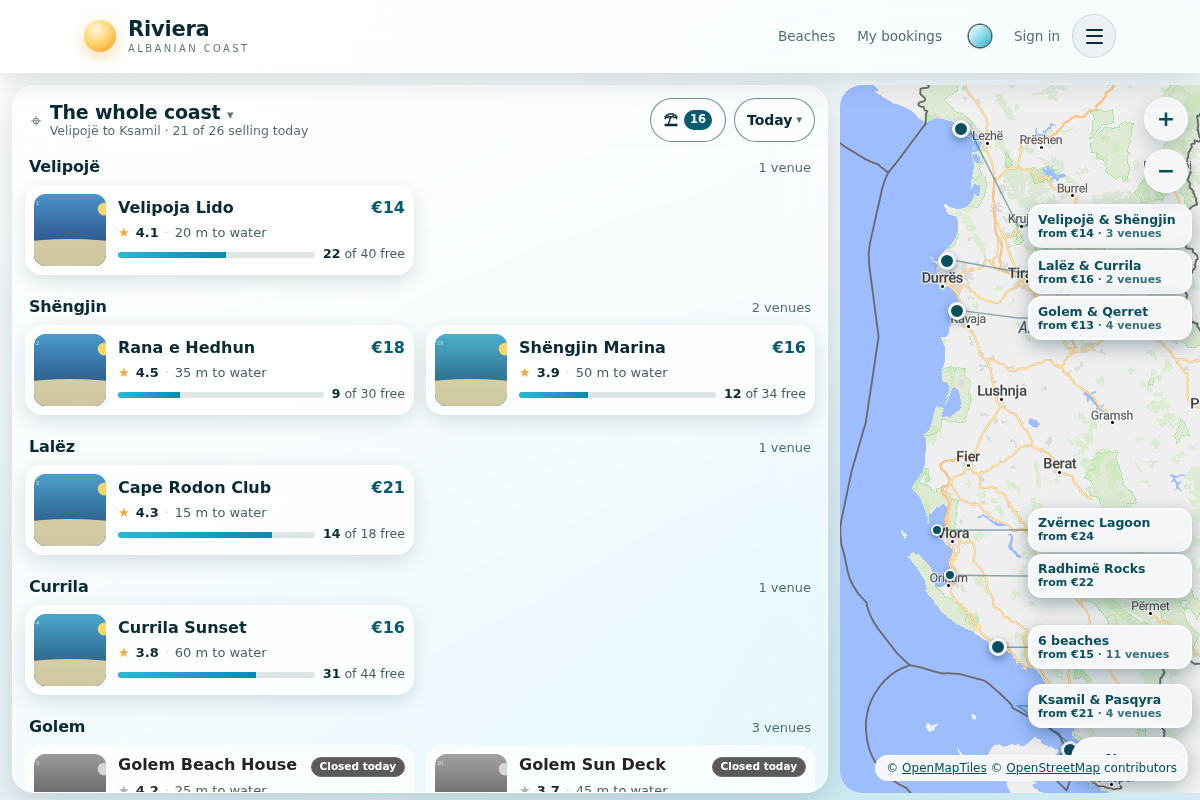
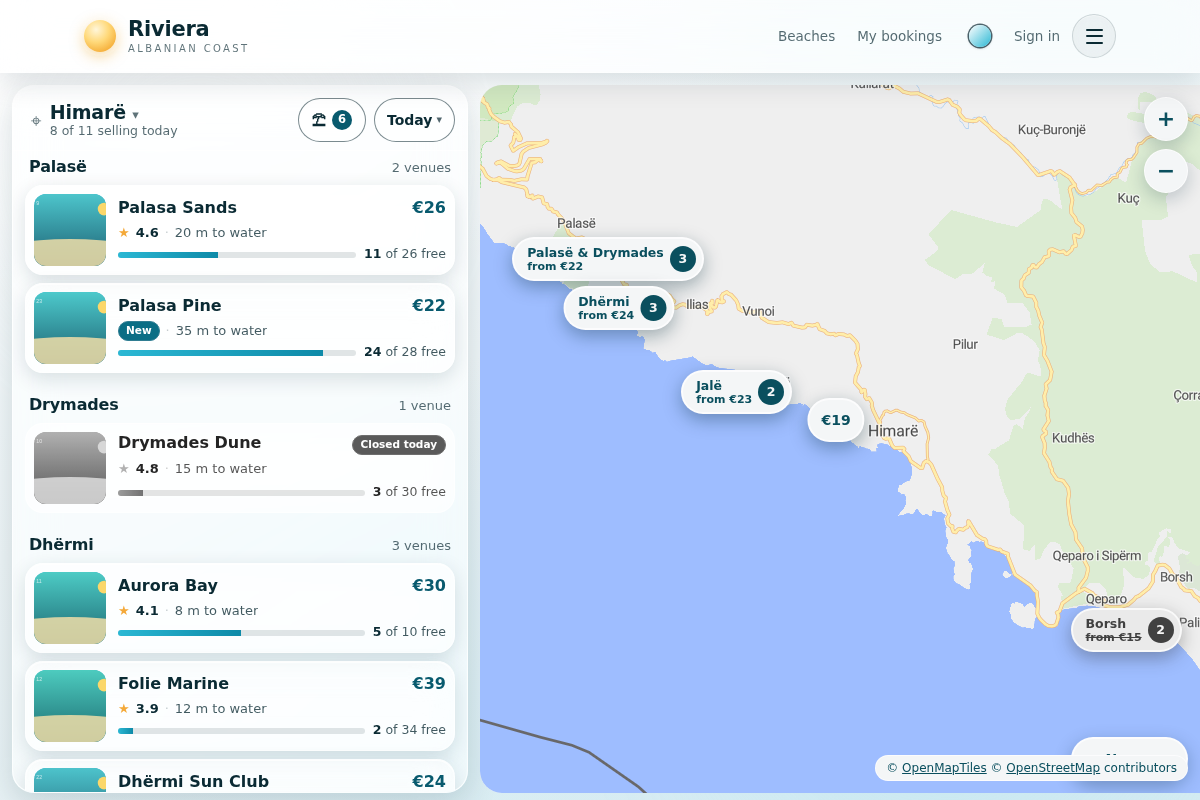
Prototype Q, round 9: the coast line cut, one venue a row on the desktop
Two maintainer calls on round 8's desktop, taken: the coast-line strip over the panel
and the two-column rows go. What the numbers argued for stays: the desktop opens on a
region, the pane is 40–60 % of the window, the whole coast is never a map, and the coast
picker under the place button (no Whole coast in it anywhere) is the desktop's only
chooser. The first row is back at y 185 at every desktop width; rows are one venue wide
beside every pane; cards only from 900 px of panel. The line component, its flag and its
shots are deleted (history at 259c9454); the README's round 9 says so and the
recommendation's third slice is the desktop as rounds 8 and 9 left it.

Claude-Session: https://claude.ai/code/session_011RMvMMLpyfyiZcjvAgin5u

diff --git a/frontend/src/app/pages/prototype-map/variant-shore.ts b/frontend/src/app/pages/prototype-map/variant-shore.ts
@@ -26,9 +26,12 @@
  * </ul>
  *
  * <p>From `lg` up the sheet becomes the left panel and the ground the right pane — the map takes
- * the width its set needs and the list keeps the rest; under ~560 px of pane the pins become dots
- * with their pills in a label gutter. Desktop is the same page with the sheet pinned open beside
- * the map, not a second design.
+ * the width its set needs, never under 40 % of the window, and the list keeps the rest, one venue
+ * a row; under ~560 px of pane the pins become dots with their pills in a label gutter. The
+ * desktop opens on a region as the phone does (round 8: the whole coast is an index no pane can
+ * frame) and the coast picker is its chooser (round 9: a coast-line strip over the panel was
+ * tried and cut). Desktop is the same page with the sheet pinned open beside the map, not a
+ * second design.
  *
  * <p>The phone sheet is two scrollers, not one. The OUTER is a CSS scroll-snap container from the
  * full line down: a transparent spacer holding the peek and half rest points as zero-height snap
@@ -42,9 +45,8 @@
  * <p>URL: `?variant=Q` · `&sheet=peek|half|full` · `&live=1` (the live map from the first paint,
  * for the cost row) · `&here=lng,lat` · `&region=` · `&beach=` · `&now=16:30` ·
  * `&head=subtitle` (the beach in the subtitle instead of a chip) · `&pane=free` (the desktop
- * pane's height follows the set too) · `&desk=line` (round 8: the desktop opens on a region and
- * the whole coast is a line chooser over the panel, never a map) · `&poster=<key>` (the driver's
- * poster-rendering mode: the bare fitted map at 440 × 380).
+ * pane's height follows the set too) · `&poster=<key>` (the driver's poster-rendering mode: the
+ * bare fitted map at 440 × 380).
  */
 import { NgTemplateOutlet } from '@angular/common';
 import {
@@ -83,7 +85,6 @@ import { VenueCard } from '../home/venue-card';
 import { contentAspect } from './prototype-aspect';
 import { fitPins } from './prototype-camera';
 import { COAST } from './prototype-coast';
-import { PrototypeCoastLine } from './prototype-coast-line';
 import { PrototypeCoastPicker } from './prototype-coast-picker';
 import { closedForTodayAt, daysFrom, parseClock } from './prototype-days';
 import { PrototypeFilter, PrototypeState } from './prototype-map-page';
@@ -204,7 +205,6 @@ const GUTTER_PILL =
     TouchTarget,
     RivieraMap,
     VenuePinLayer,
-    PrototypeCoastLine,
     PrototypeCoastPicker,
     PrototypeVenueRow,
     PrototypeVenueCard,
@@ -500,22 +500,12 @@ const GUTTER_PILL =
           [style.width.px]="panelWidth()"
         >
           <div class="relative shrink-0 border-b border-riv-header-border pt-3 pb-2">
-            @if (lineDesk()) {
-              <!-- Round 8: the coast as a line over the panel; the pane below is always a region. -->
-              <app-prototype-coast-line
-                class="mb-1 border-b border-riv-header-border"
-                [region]="focus().region"
-                [beach]="focus().beach"
-                (picked)="filtered.emit($event)"
-              />
-            }
             <ng-container *ngTemplateOutlet="head" />
             @if (pickerOpen()) {
               <app-prototype-coast-picker
                 [region]="state().region"
                 [beach]="state().beach"
                 [located]="state().here !== null"
-                [wholeCoast]="!lineDesk()"
                 (picked)="filtered.emit($event)"
                 (nearMe)="locate()"
                 (closed)="pickerOpen.set(false)"
@@ -662,8 +652,6 @@ export class VariantShore {
   protected readonly subtitleHead = computed(() => this.params().get('head') === 'subtitle');
   /** `?pane=free`: the desktop pane's height follows the set as its width does. */
   private readonly freePane = computed(() => this.params().get('pane') === 'free');
-  /** `?desk=line`: the desktop opens on a region, like the phone, under a coast-line chooser. */
-  protected readonly lineDesk = computed(() => this.params().get('desk') === 'line');
   private readonly askedDetent = (this.params().get('sheet') as Detent | null) ?? 'half';
   /** The scroller's `scrollTop`, mirrored on every scroll event: the one number the sheet is. */
   private readonly scrolled = signal(0);
@@ -707,19 +695,14 @@ export class VariantShore {
     return day ? `${day.weekday} ${day.label}` : this.state().dateLabel;
   });
 
-  /** A region, never the coast, on a phone; the desktop can frame the coast and opens on it. */
+  /** A region, never the coast, on every screen: the tourist's own when located, Himarë otherwise. */
   protected readonly focus = computed<Focus>(() => {
     const s = this.state();
     if (s.beach !== '') {
       return { cards: s.cards, region: beachEntry(s.beach)?.region ?? '', beach: s.beach };
     }
     if (s.region !== '') return { cards: s.cards, region: s.region, beach: '' };
-    const region =
-      s.here !== null
-        ? nearestRegion(s.here, s.cards)
-        : this.wide() && !this.lineDesk()
-          ? ''
-          : PHONE_DEFAULT_REGION;
+    const region = s.here !== null ? nearestRegion(s.here, s.cards) : PHONE_DEFAULT_REGION;
     if (region === '') return { cards: s.cards, region: '', beach: '' };
     return {
       cards: s.cards.filter((c) => beachEntry(c.beach)?.region === region),
@@ -1004,9 +987,8 @@ export class VariantShore {
   private readonly mapWidth = computed(() => {
     const { w } = this.viewport();
     const wanted = (this.columnHeight() - PAD) / this.aspect() + PAD;
-    // The line desk always frames a region: a floor of 40 %, or a two-pin region gets the 360 column.
-    const floor = this.lineDesk() ? Math.max(360, w * 0.4) : 360;
-    return Math.round(Math.max(floor, Math.min(w * 0.6, wanted)));
+    // The pane always frames a region: a floor of 40 %, or a two-pin region would get a 360 column.
+    return Math.round(Math.max(360, w * 0.4, Math.min(w * 0.6, wanted)));
   });
   protected readonly panelWidth = computed(() =>
     Math.max(420, this.viewport().w - this.mapWidth() - 24),
@@ -1025,13 +1007,13 @@ export class VariantShore {
    * where two row columns show four, and the panel's job beside a map is scanning.
    */
   protected readonly cardsGrid = computed(() => this.wide() && this.panelWidth() >= 900);
-  /** Cards: two, three, four columns as the panel widens; rows: two columns from 600 px, else one. */
+  /** Cards: two, three, four columns as the panel widens; rows: always one venue a row (round 9). */
   protected readonly gridCols = computed(() => {
     const w = this.panelWidth();
     if (this.cardsGrid()) {
       return 'gap-3 ' + (w >= 1400 ? 'grid-cols-4' : w >= 1000 ? 'grid-cols-3' : 'grid-cols-2');
     }
-    return this.wide() && w >= 600 ? 'grid-cols-2 gap-x-3' : 'grid-cols-1';
+    return 'grid-cols-1';
   });
 
   protected kmLabel(km: number): string {

diff --git a/frontend/src/app/pages/prototype-map/prototype-coast-picker.ts b/frontend/src/app/pages/prototype-map/prototype-coast-picker.ts
@@ -6,8 +6,8 @@
  * once is a narrow ribbon alone, full-height. So the ribbon is the thing a phone opens ON DEMAND
  * to choose a place: a sheet with the coast as a 150 px ribbon down its left edge and, beside it,
  * the coast index as 44 px rows — every region and every beach that has a venue, its count and
- * its from-price — each row tied to its dot by a leader. Near me heads the list; Whole coast joins it from `lg`,
- * because the coast is not a phone state (a region is the phone's widest frame).
+ * its from-price — each row tied to its dot by a leader. Near me heads the list; there is no `Whole coast`,
+ * because the coast is not a state on any screen (a region is the widest frame a pane can hold).
  * The ribbon's WebGL context exists only while the sheet is open, which is the cost a first
  * screen on 4G should not carry.
  *
@@ -93,17 +93,6 @@ interface IndexRow {
           (click)="nearMe.emit()"
         >
           <span aria-hidden="true">◎</span> Near me
-        </button>
-        <button
-          type="button"
-          appTouchTarget
-          class="hidden flex-1 items-center justify-center rounded-full border border-riv-field-border bg-riv-field-fill px-4 text-[14px] font-semibold text-riv-ink"
-          [class.lg:inline-flex]="wholeCoast()"
-          [class.bg-riv-accent-ink]="region() === '' && beach() === '' && !located()"
-          [class.text-riv-on-accent-ink]="region() === '' && beach() === '' && !located()"
-          (click)="pick({ region: '', beach: '', here: null })"
-        >
-          Whole coast
         </button>
       </div>
 
@@ -197,8 +186,6 @@ export class PrototypeCoastPicker {
   readonly region = input.required<string>();
   readonly beach = input.required<string>();
   readonly located = input(false);
-  /** Whether the coast itself is a state the desktop can show; round 8's line desk says no. */
-  readonly wholeCoast = input(true);
   readonly picked = output<PrototypeFilter>();
   readonly nearMe = output<void>();
   readonly closed = output<void>();

diff --git a/frontend/src/app/pages/prototype-map/README.md b/frontend/src/app/pages/prototype-map/README.md
@@ -9,8 +9,8 @@ screenshots and verdicts are in this branch's history (commit 2e53109 and before
 `git log --diff-filter=D -- 'frontend/src/app/pages/prototype-map/'`). What they established and
 Q rests on is in § _What Q rests on_. Round 7 (§ _Round 7_) improved Q on the phone and the
 desktop before the decision whether to implement it; round 8 (§ _Round 8_) replaced the desktop's
-whole-coast opening with a region under a coast-line chooser. The verdict and the first slices
-are at the end.
+whole-coast opening with a region, and round 9 (§ _Round 9_) cut the coast-line strip it had put
+over the panel and the two-column rows. The verdict and the first slices are at the end.
 
 ```
 npm start           # from frontend/
@@ -23,7 +23,7 @@ Every state is in the URL: `?sheet=peek` (the sheet pulled down to the map), `?s
 `?here=19.641,40.147` (the tourist standing on Dhërmi beach), `?region=SARANDE`, `?beach=DHERMI`,
 `?now=16:30` (the clock, for the sales-close state), `?live=1` (the live map from the first paint,
 for the cost row), `?head=subtitle` (round 7's other head), `?pane=free` (round 7's other desktop
-pane), `?desk=line` (round 8's desktop: a region in the pane, the coast as a line over the panel). Venues come from `prototype-venues.ts` (26 fixtures on the real shoreline — snapped there in
+pane), `?dense=30` (round 8's density question: Himarë padded to 30 venues). Venues come from `prototype-venues.ts` (26 fixtures on the real shoreline — snapped there in
 round 7), so no backend is needed; the map is the real `app-riviera-map` against the real
 `platform/map` tiles, which `./gradlew bootRun` serves at `/map/**` (the driver serves them from
 disk).
@@ -228,13 +228,13 @@ snap-mandatory`, `snap-start`, `snap-always`): the OUTER holds a transparent spa
   12 mm. It hides at full.
 - **Desktop from `lg`**: the sheet is the left panel, pinned open, with the same head; the map is
   the rest, sized by the set's own shape (`prototype-aspect.ts`) — the pane takes the width the
-  set needs (360 px for the whole coast, 864 for Himarë at 1440) and the panel keeps the rest:
-  one row column below 600 px, two row columns to 900, a card grid above (two columns, three
-  from 1,000, four from 1,400). Under 560 px of pane the pins are **dots with a label gutter** down
-  the pane's right edge — each crowd's name, from-price and count as a 44 px row tied to its dot
-  by a leader, under the zoom column and above Near me — because at 360 px the ADR-0022 fence
-  pins the camera to zoom 7 and a pill has nowhere to hang. The desktop opens on the whole coast,
-  which its column can frame.
+  set needs between 40 and 60 % of the window (864 px for Himarë at 1440, 576 for Sarandë) and
+  the panel keeps the rest, one venue a row, a card grid only from 900 px of panel. The desktop
+  opens on a region as the phone does — the whole coast is an index no pane can frame — and the
+  coast picker under the place button is its chooser. Under 560 px of pane the pins are **dots
+  with a label gutter** down the pane's right edge — each crowd's name, from-price and count as a
+  44 px row tied to its dot by a leader, under the zoom column and above Near me — for a narrow
+  region's crowds on a small window.
 
 ## Measured: geometry and cost
 
@@ -254,10 +254,9 @@ Phone, 390 × 844, by `shoot.mjs` (photos are SVG stand-ins — judge mass, not 
 
 430 × 932: the same layout; the poster's 440 px width covers it with a 5 px crop, the first row is
 still at y 493 and the tall phone gets its extra 88 px as list (`Q-shore-tall.png`); at peek the
-window is 68 → 793 (`Q-shore-tall-peek.png`). Desktop: panel 1,056 + map 360 at 1440 (whole
-coast, dots and the gutter, three card columns); panel 552 + map 864 at Himarë (pins 829 × 514,
-one row column); panel 1,536 + map 360 at 1920 (four columns); the 1024–1300 range is in
-§ _Round 7_.
+window is 68 → 793 (`Q-shore-tall-peek.png`). Desktop (Himarë, the opening region): panel 552 +
+map 864 at 1440, pins 829 × 514, six rows on screen; panel 744 + map 1,152 at 1920, seven rows;
+panel 420 + map 580 at 1024; a narrow region (Sarandë) gets the 40 % floor, 576, and a panel of 840. Rounds 7 to 9 for how the desktop got here.
 
 ## Q's faults, the honest list
 
@@ -514,7 +513,8 @@ removes the state rather than restyling it:
 - **The gutter is kept for a region's crowds under 560 px of pane** only; it never carries the
   coast.
 
-Measured (`Q-shore-*-line*.png`):
+Measured (the line shots were cut with the strip in round 9; they are in the branch's history at
+`259c9454`):
 
 | Window                         | Panel · pane               | Line: run widths, truncation | Panel form                                                | Pins in the pane                                                                              |
 | ------------------------------ | -------------------------- | ---------------------------- | --------------------------------------------------------- | --------------------------------------------------------------------------------------------- |
@@ -532,7 +532,7 @@ own resize tick, which no map move announces, so the classes are now applied fro
 ### Density: Himarë at 30 venues
 
 `?dense=30` pads Himarë from 11 to 30 by interpolating clones between its pins in coast order,
-so the bounding box and the poster's camera are the real fixture's (`Q-shore-*-dense*.png`):
+so the bounding box and the poster's camera are the real fixture's (`Q-shore-phone-dense*.png`, `Q-shore-1440-dense*.png`):
 
 - **The phone's first paint holds.** Still 0 map requests and 0 contexts, the first row at 493,
   and four pills with no collision — but the names give way to counts: `3 beaches · from €15 ·
@@ -555,13 +555,28 @@ so the bounding box and the poster's camera are the real fixture's (`Q-shore-*-d
   that close, so a beach with more than four or five needs either a cap of 15 at the beach
   level (a 700 m window, the sea still on one side) or the list as the only way in.
 
-**Verdict: the line desk replaces the whole-coast desk.** Every desktop screen is now a region
-with a wide map (40–60 % of the window), the panel's groups are two to eleven venues, the coast
-stays one glance away in a 77 px strip that never truncates down to 1024, and the desktop is
-the phone's own logic with more room rather than a second design. What it costs: 77 px of panel
-height, and the "26 venues from Velipojë to Ksamil" overview, which the line's counts and
-from-prices carry instead. The `?desk=line` flag is only so the two can be shot side by side;
-implemented, it is the desktop.
+**Verdict, as round 8 left it: the line desk replaces the whole-coast desk.** Every desktop
+screen is now a region with a wide map (40–60 % of the window), the panel's groups are two to
+eleven venues, and the desktop is the phone's own logic with more room rather than a second
+design. Round 9 kept the region-first opening and cut the strip itself (§ _Round 9_); its shots
+live in the branch's history at `259c9454`.
+
+## Round 9 — the coast line cut, one venue a row
+
+Two maintainer calls on round 8's desktop, both taken: the coast-line strip over the panel is
+gone, and rows are one venue wide everywhere. What stays from round 8 is the part the numbers
+argued for — the desktop opens on a region, the pane is 40–60 % of the window, and the whole
+coast is never a map — and the coast picker under the place button (the ribbon and the index,
+`Q-shore-1440-picker.png`) is now the desktop's only coast chooser, as it is the phone's. The
+picker no longer offers `Whole coast` at all, and the `desk=line` flag and `prototype-coast-line.ts`
+are deleted rather than kept as an option.
+
+Measured against round 8: the first row is back at y 185 at every desktop width (the strip had
+cost 77 px); 1440 shows six rows, 1920 seven; a row is 526 px wide beside Himarë's 864 px pane
+at 1440 and 814 wide beside Sarandë's 576 px pane, where round 8 had put two 395 px rows side
+by side. Cards remain only from 900 px of panel (a window of about 1,540 px beside a 40 % pane),
+which on this desk is rare and is where a card grid earns its columns. Everything else measured
+in rounds 7 and 8 holds: the phone is untouched, and the density findings apply as written.
 
 ## Screenshots
 
@@ -573,30 +588,29 @@ driver logs each shot's first-screen cost (map style/sprite/glyph requests, tile
 contexts) and the geometry the notes argue from; `--json` keeps the raw numbers. Phone shots are
 390 × 844 at 1×.
 
-| File                                                                                                                                                             | What                                                                                                                                                            |
-| ---------------------------------------------------------------------------------------------------------------------------------------------------------------- | --------------------------------------------------------------------------------------------------------------------------------------------------------------- |
-| `ref-airbnb-phone.png` · `ref-airbnb-phone-list.png` · `ref-airbnb-phone-pin.png`                                                                                | the reference: Airbnb's mobile search at Himarë — the sheet on the map; pulled up; a pin                                                                        |
-| `ref-spiagge-phone.png`                                                                                                                                          | spiagge.it's first screen: where, when, Cerca — no map                                                                                                          |
-| `Q-shore-phone.png` · `Q-shore-phone-himare.png`                                                                                                                 | the first paint: the Himarë poster, the sheet at half, the one-row head (the default, and asked for by region)                                                  |
-| `Q-shore-phone-subtitle.png`                                                                                                                                     | round 7's other head: the beach in the subtitle, no chip (`?head=subtitle`)                                                                                     |
-| `Q-shore-phone-riviera.png` · `Q-shore-phone-dark.png`                                                                                                           | the same first paint in the `riviera` and `dark` themes (glare)                                                                                                 |
-| `Q-shore-phone-flick-up.png` · `Q-shore-phone-flick-down.png`                                                                                                    | a real touch flick: 400 px up from half rests at full; 350 px down from full rests at peek                                                                      |
-| `Q-shore-phone-full.png` · `Q-shore-phone-full-scrolled.png`                                                                                                     | the sheet at full: the sliver, the Map pill; and scrolled 700 px inside                                                                                         |
-| `Q-shore-phone-peek.png` · `Q-shore-phone-peek-pin.png`                                                                                                          | the sheet at peek: the live map fills the window; a crowd press at peek                                                                                         |
-| `Q-shore-phone-pin.png` · `Q-shore-phone-pin-lone.png`                                                                                                           | a crowd press at half (the north end separates inside the window); a lone pin press lifts its row, lit                                                          |
-| `Q-shore-phone-pins-inland-merged.png`                                                                                                                           | round 6's inland fixture with the merged-crowd classes firing: the compact Dhërmi disc gone, `Palasë – Dhërmi · 6`                                              |
-| `Q-shore-phone-here.png` · `Q-shore-phone-here-pin.png`                                                                                                          | located at Dhërmi: nearest first, `You are here`; a crowd press while located                                                                                   |
-| `Q-shore-phone-sarande.png` · `Q-shore-phone-beach.png`                                                                                                          | a tall region north up on the poster; one beach (Dhërmi) at the zoom cap — on the shoreline now                                                                 |
-| `Q-shore-phone-1630.png` · `Q-shore-phone-day.png` · `Q-shore-phone-picker.png`                                                                                  | dusk at 16:30 (legible now); the day chips; the coast picker without `Whole coast`                                                                              |
-| `Q-shore-phone-beaches.png` · `Q-shore-phone-beach-chosen.png`                                                                                                   | the beach chip opened into its rail; the same with Dhërmi chosen, its chip lit and in view                                                                      |
-| `Q-shore-phone-live.png`                                                                                                                                         | the control: the live map from the first paint, pins where the poster's were                                                                                    |
-| `Q-shore-tall.png` · `Q-shore-tall-peek.png`                                                                                                                     | 430 × 932, half and peek                                                                                                                                        |
-| `Q-shore-1024.png` · `Q-shore-1100.png` · `Q-shore-1200.png`                                                                                                     | the narrowest panels: two row columns beside the 360 px pane with dots and the gutter                                                                           |
-| `Q-shore-1440.png` · `Q-shore-1440-here.png` · `Q-shore-1920.png`                                                                                                | the desktop: the whole coast (360 px pane, dots and the gutter, three columns); located; 1920 (four columns)                                                    |
-| `Q-shore-1440-himare.png` · `Q-shore-1440-himare-free.png` · `Q-shore-1440-pin.png`                                                                              | Himarë's 864 px pane at the column's height and at the set's own (`?pane=free`); a lone pin press lights and centres its row                                    |
-| `Q-shore-1440-line.png` · `Q-shore-1920-line.png` · `Q-shore-1200-line.png` · `Q-shore-1024-line.png`                                                            | round 8: the line desk — Himarë in the pane under the coast line, at four widths (the merge classes fire at 1024)                                               |
-| `Q-shore-1440-line-sarande.png` · `Q-shore-1440-line-beach.png` · `Q-shore-1440-line-picker.png`                                                                 | round 8: a narrow region on the 40 % floor with two row columns; Dhërmi chosen (its dot lit); the picker without `Whole coast`                                  |
-| `Q-shore-phone-dense.png` · `Q-shore-phone-dense-pin.png` · `Q-shore-phone-dense-full.png` · `Q-shore-1440-line-dense.png` · `Q-shore-1440-line-dense-beach.png` | round 8's density question: Himarë padded to 30 (`?dense=30`) at half, after a crowd press, at full; the line desk at 1440 and its Dhërmi beach at the zoom cap |
+| File                                                                                                                                                   | What                                                                                                                                                          |
+| ------------------------------------------------------------------------------------------------------------------------------------------------------ | ------------------------------------------------------------------------------------------------------------------------------------------------------------- |
+| `ref-airbnb-phone.png` · `ref-airbnb-phone-list.png` · `ref-airbnb-phone-pin.png`                                                                      | the reference: Airbnb's mobile search at Himarë — the sheet on the map; pulled up; a pin                                                                      |
+| `ref-spiagge-phone.png`                                                                                                                                | spiagge.it's first screen: where, when, Cerca — no map                                                                                                        |
+| `Q-shore-phone.png` · `Q-shore-phone-himare.png`                                                                                                       | the first paint: the Himarë poster, the sheet at half, the one-row head (the default, and asked for by region)                                                |
+| `Q-shore-phone-subtitle.png`                                                                                                                           | round 7's other head: the beach in the subtitle, no chip (`?head=subtitle`)                                                                                   |
+| `Q-shore-phone-riviera.png` · `Q-shore-phone-dark.png`                                                                                                 | the same first paint in the `riviera` and `dark` themes (glare)                                                                                               |
+| `Q-shore-phone-flick-up.png` · `Q-shore-phone-flick-down.png`                                                                                          | a real touch flick: 400 px up from half rests at full; 350 px down from full rests at peek                                                                    |
+| `Q-shore-phone-full.png` · `Q-shore-phone-full-scrolled.png`                                                                                           | the sheet at full: the sliver, the Map pill; and scrolled 700 px inside                                                                                       |
+| `Q-shore-phone-peek.png` · `Q-shore-phone-peek-pin.png`                                                                                                | the sheet at peek: the live map fills the window; a crowd press at peek                                                                                       |
+| `Q-shore-phone-pin.png` · `Q-shore-phone-pin-lone.png`                                                                                                 | a crowd press at half (the north end separates inside the window); a lone pin press lifts its row, lit                                                        |
+| `Q-shore-phone-pins-inland-merged.png`                                                                                                                 | round 6's inland fixture with the merged-crowd classes firing: the compact Dhërmi disc gone, `Palasë – Dhërmi · 6`                                            |
+| `Q-shore-phone-here.png` · `Q-shore-phone-here-pin.png`                                                                                                | located at Dhërmi: nearest first, `You are here`; a crowd press while located                                                                                 |
+| `Q-shore-phone-sarande.png` · `Q-shore-phone-beach.png`                                                                                                | a tall region north up on the poster; one beach (Dhërmi) at the zoom cap — on the shoreline now                                                               |
+| `Q-shore-phone-1630.png` · `Q-shore-phone-day.png` · `Q-shore-phone-picker.png`                                                                        | dusk at 16:30 (legible now); the day chips; the coast picker without `Whole coast`                                                                            |
+| `Q-shore-phone-beaches.png` · `Q-shore-phone-beach-chosen.png`                                                                                         | the beach chip opened into its rail; the same with Dhërmi chosen, its chip lit and in view                                                                    |
+| `Q-shore-phone-live.png`                                                                                                                               | the control: the live map from the first paint, pins where the poster's were                                                                                  |
+| `Q-shore-tall.png` · `Q-shore-tall-peek.png`                                                                                                           | 430 × 932, half and peek                                                                                                                                      |
+| `Q-shore-1024.png` · `Q-shore-1200.png`                                                                                                                | the narrowest windows: Himarë in a 40–60 % pane, one venue a row (the merge classes fire at 1024)                                                             |
+| `Q-shore-1440.png` · `Q-shore-1440-here.png` · `Q-shore-1920.png`                                                                                      | the desktop: Himarë, the opening region, at 1440; located; 1920                                                                                               |
+| `Q-shore-1440-free.png` · `Q-shore-1440-pin.png`                                                                                                       | Himarë's 864 px pane at the set's own height (`?pane=free`); a lone pin press lights and centres its row                                                      |
+| `Q-shore-1440-sarande.png` · `Q-shore-1440-beach.png` · `Q-shore-1440-picker.png`                                                                      | a narrow region on the 40 % floor; Dhërmi chosen; the coast picker, the desktop's chooser                                                                     |
+| `Q-shore-phone-dense.png` · `Q-shore-phone-dense-pin.png` · `Q-shore-phone-dense-full.png` · `Q-shore-1440-dense.png` · `Q-shore-1440-dense-beach.png` | round 8's density question: Himarë padded to 30 (`?dense=30`) at half, after a crowd press, at full; the desktop at 1440 and its Dhërmi beach at the zoom cap |
 
 ## Files
 
@@ -605,8 +619,7 @@ contexts) and the geometry the notes argue from; `--json` keeps the raw numbers.
 | `prototype-map-page.ts`                              | the host: fixture data, the filters and the tourist's position from the URL                                                                     |
 | `variant-shore.ts`                                   | Q: the ground, the two-scroller sheet, the poster/live swap, the dusk and merged-crowd classes, the desktop panel rule, the dots and the gutter |
 | `prototype-poster.ts`                                | the still poster: its box, its camera, and the `MapHandle` over an image the pin layer draws through                                            |
-| `prototype-coast-picker.ts`                          | the coast as a chooser: the ribbon + the index as a sheet (a popover from `lg`)                                                                 |
-| `prototype-coast-line.ts`                            | round 8: the coast as a line over the desktop panel — six region runs, sixteen beach dots, a press focuses the region                           |
+| `prototype-coast-picker.ts`                          | the coast as a chooser: the ribbon + the index as a sheet (a popover from `lg`) — the desktop's only way to another region                      |
 | `prototype-venue-row.ts` · `prototype-venue-card.ts` | the phone row (the pin's preview) and the desktop card                                                                                          |
 | `prototype-place.ts`                                 | the tourist's position, distances, the beach grouping                                                                                           |
 | `prototype-aspect.ts`                                | the result set's own aspect ratio — the number the desktop pane is sized from                                                                   |
@@ -620,8 +633,8 @@ contexts) and the geometry the notes argue from; `--json` keeps the raw numbers.
 
 ## Recommendation
 
-**Implement Q with round 7's changes and round 8's desktop**, not as round 6 left it and not
-another round: the two
+**Implement Q with round 7's changes and the desktop of rounds 8 and 9**, not as round 6 left it
+and not another round: the two
 open questions that would justify more prototyping — whether a sheet over a poster can be the
 first paint for the price of one image, and whether the sheet's feel survives a real thumb — are
 answered by measurement (0 map requests, 0 contexts, 37 kB; a flick that rests where it should),
@@ -633,9 +646,9 @@ positions; **(2) the poster** — a backend renderer for one still per region an
 3× from the map extract, the `MapHandle` over an image, `fitUnderHeader`, and the live map's
 swap-in at the poster's camera, with the first-paint cost asserted (0 map requests, 0 contexts);
 **(3) the pin layer and the desktop** — a `dusk` input on the layer, the one-line crowd-mean rule
-with its spec, and round 8's desktop: region-first, the coast line over the panel, the pane rule
-between 40 and 60 % of the window, the panel's column steps, the gutter for a region's crowds
-under 560 px, no whole-coast state anywhere. A fourth, a product requirement rather than a slice
+with its spec, and the desktop as rounds 8 and 9 left it: region-first with the picker as the
+chooser, the pane rule between 40 and 60 % of the window, one venue a row with cards only from
+900 px of panel, the gutter for a region's crowds under 560 px, no whole-coast state anywhere. A fourth, a product requirement rather than a slice
 of Q: a shoreline snap in the operator's pin placer, because the map is the ground now.
 
 Written under prototype rules: no tests, no error handling, no a11y or contrast specs. If Q ships
